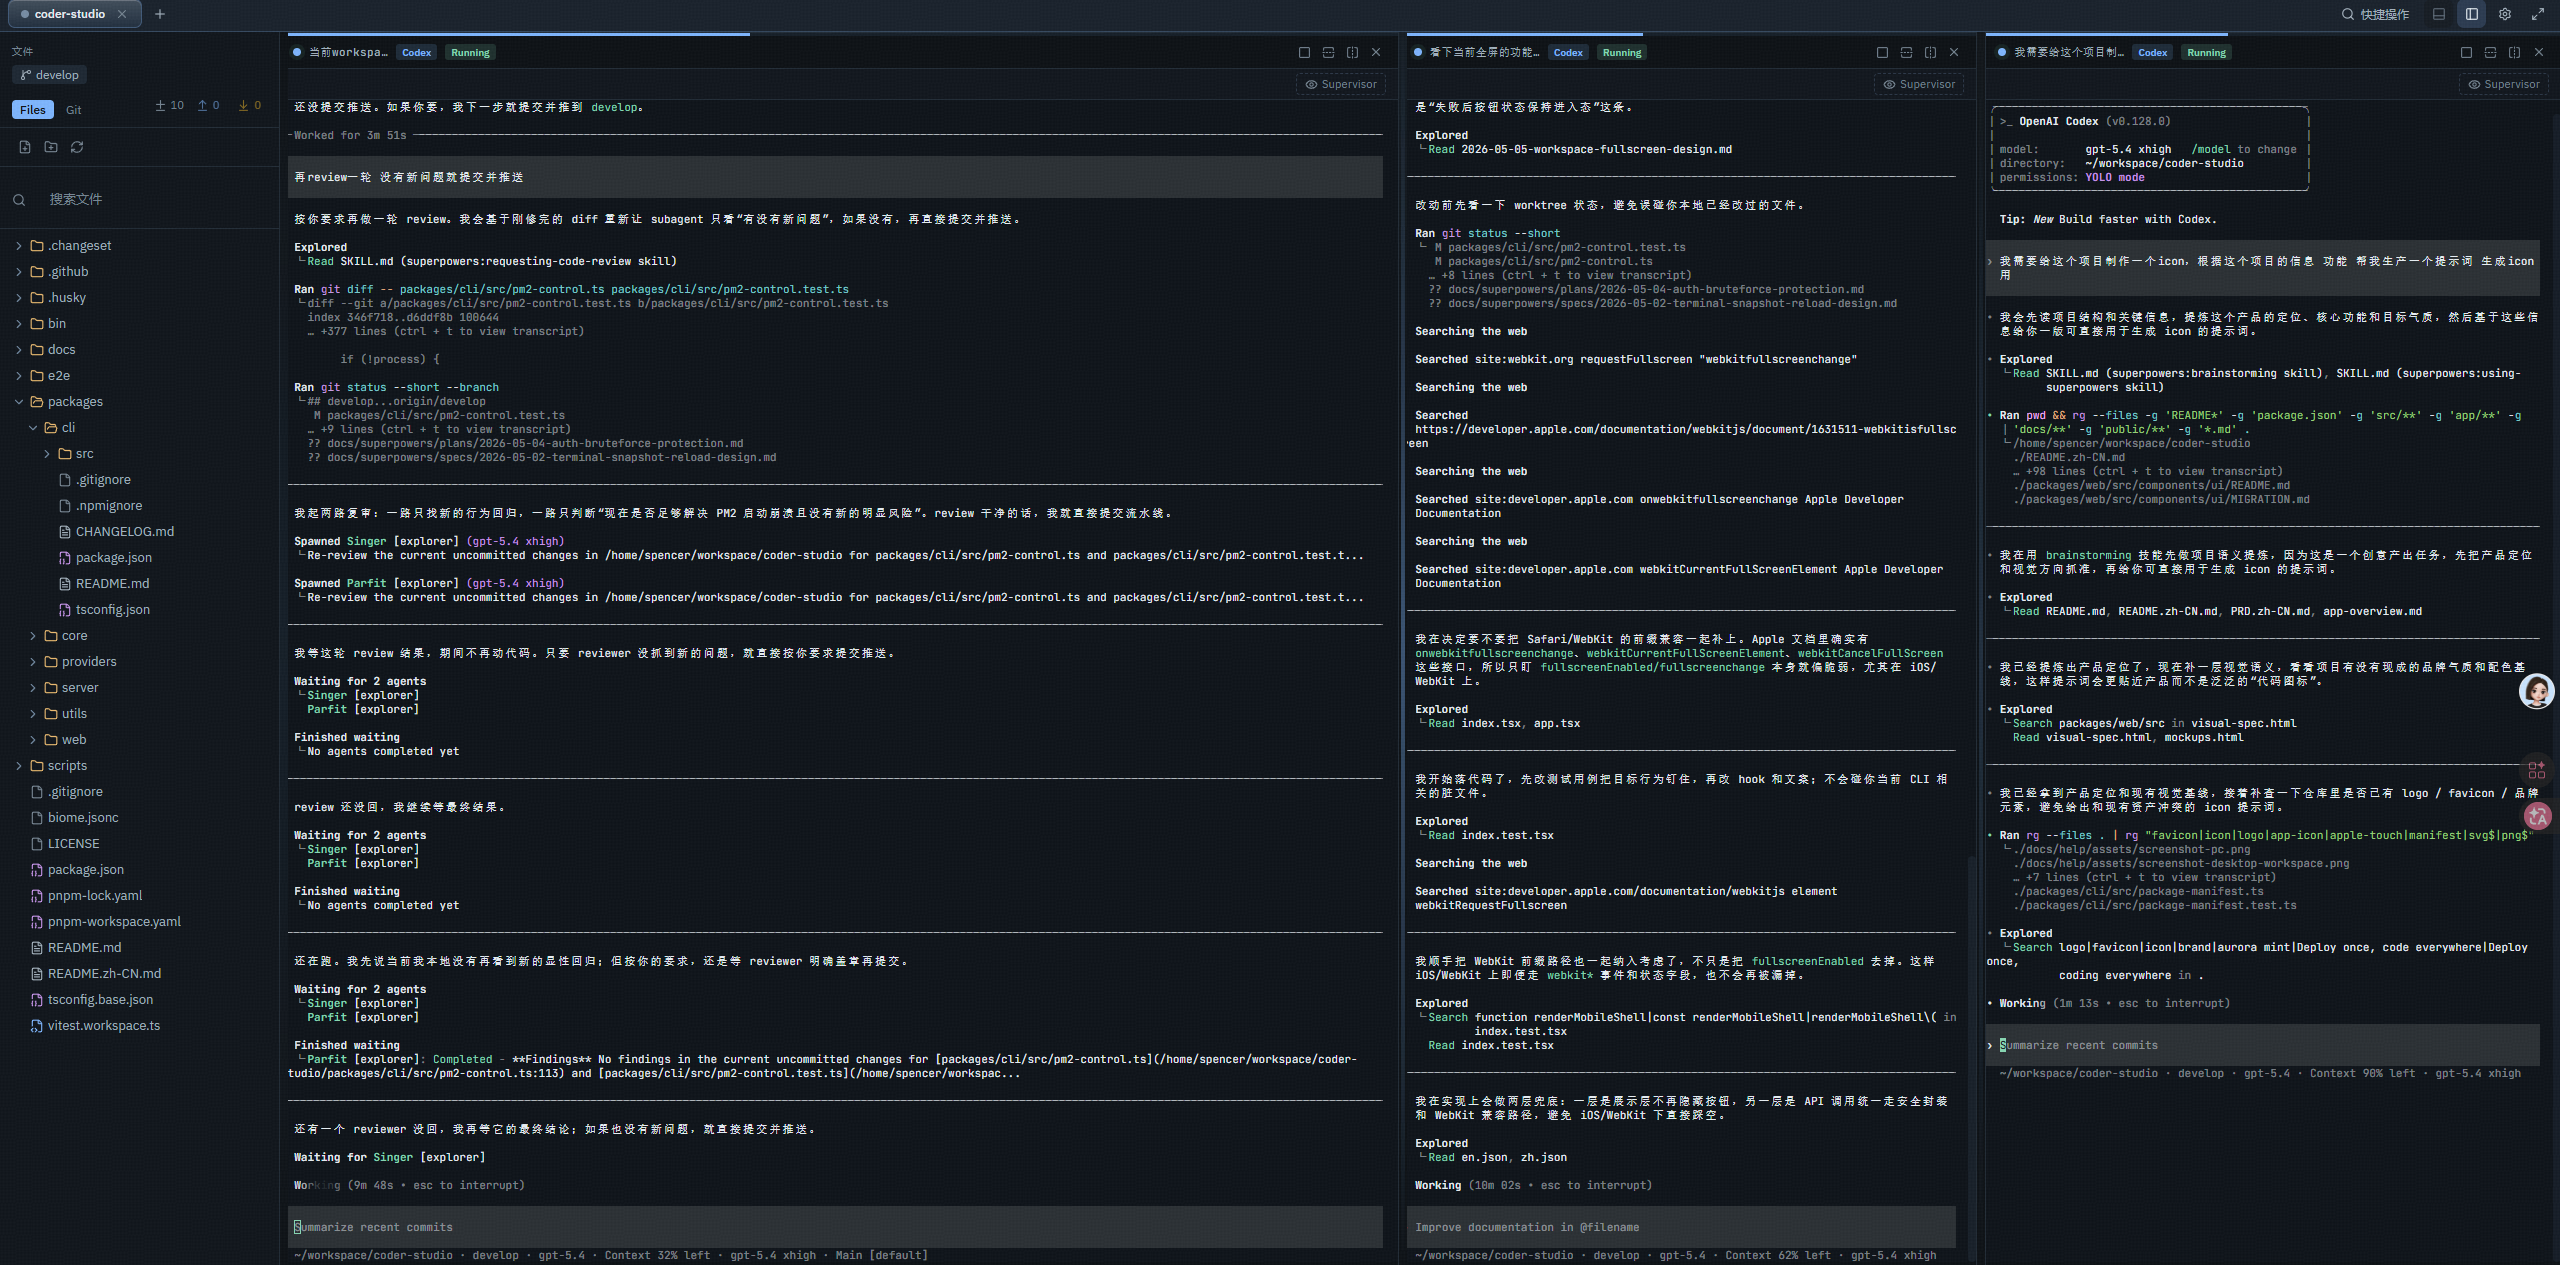
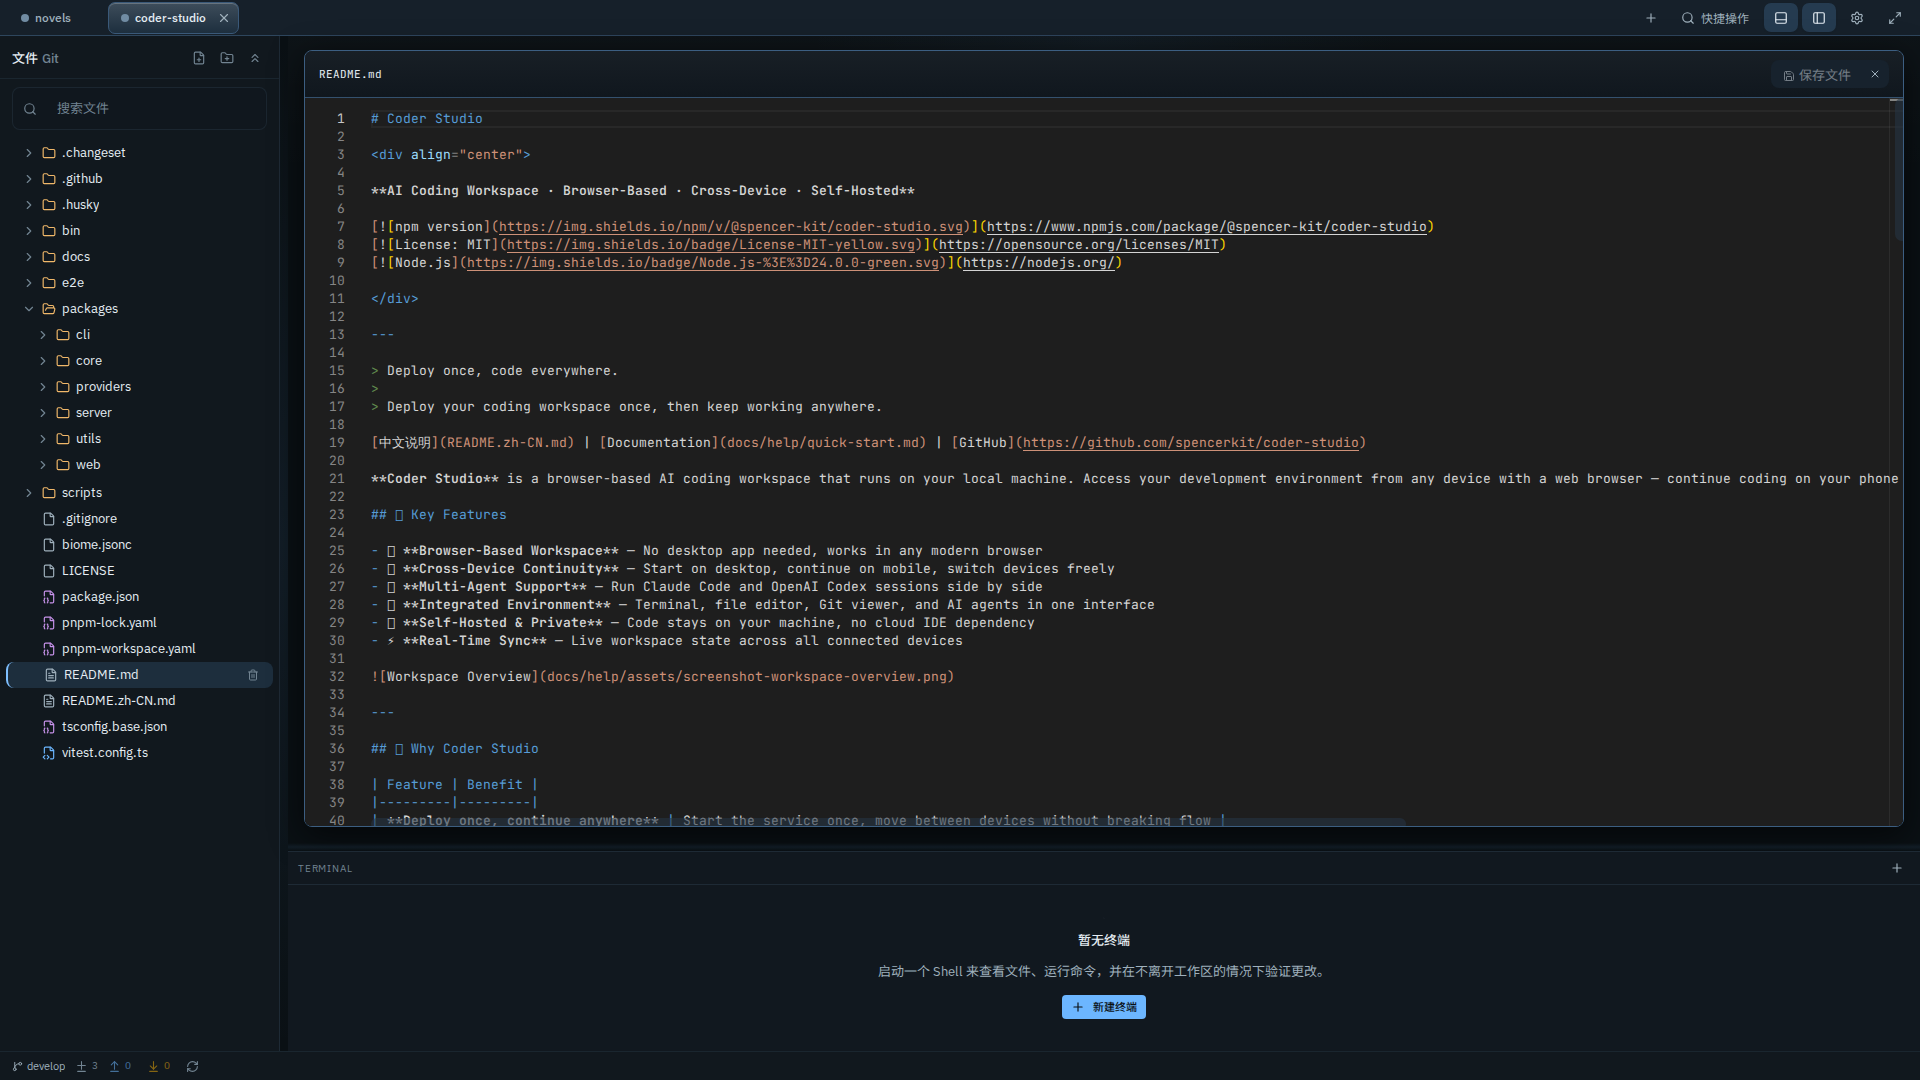
docs: refresh published workspace screenshots

diff --git a/.changeset/serious-lights-rest.md b/.changeset/serious-lights-rest.md
@@ -1,0 +1,5 @@
+---
+"@spencer-kit/coder-studio": patch
+---
+
+Refresh the published workspace screenshots in the README and help guides so they match the current desktop and mobile editor shell UI.
